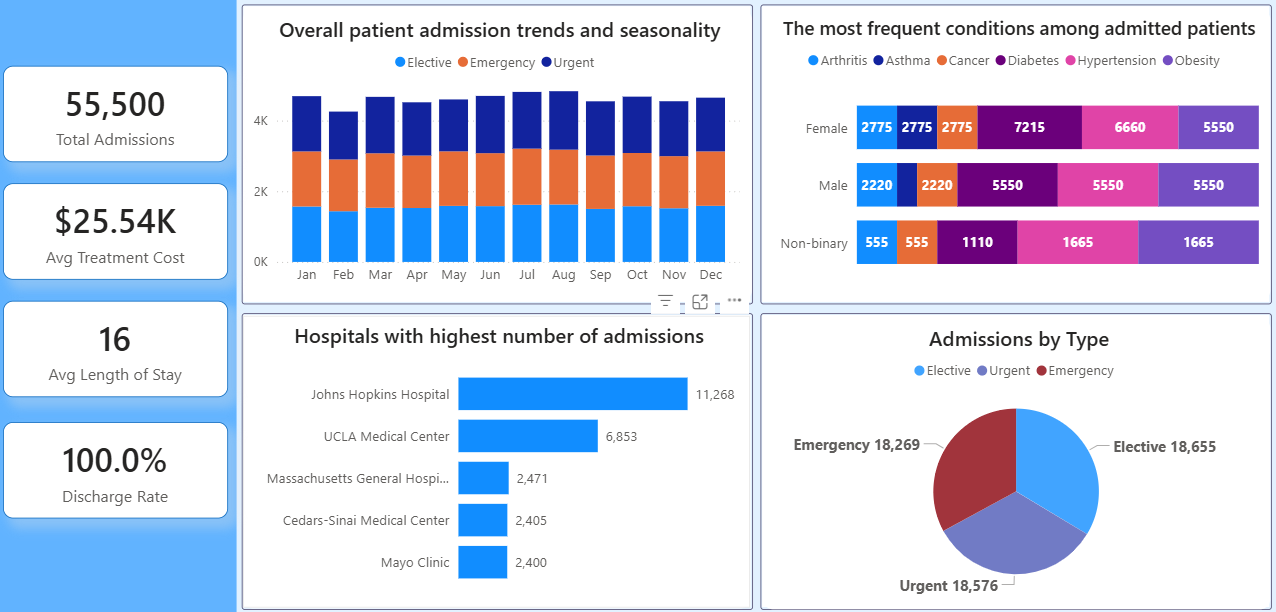
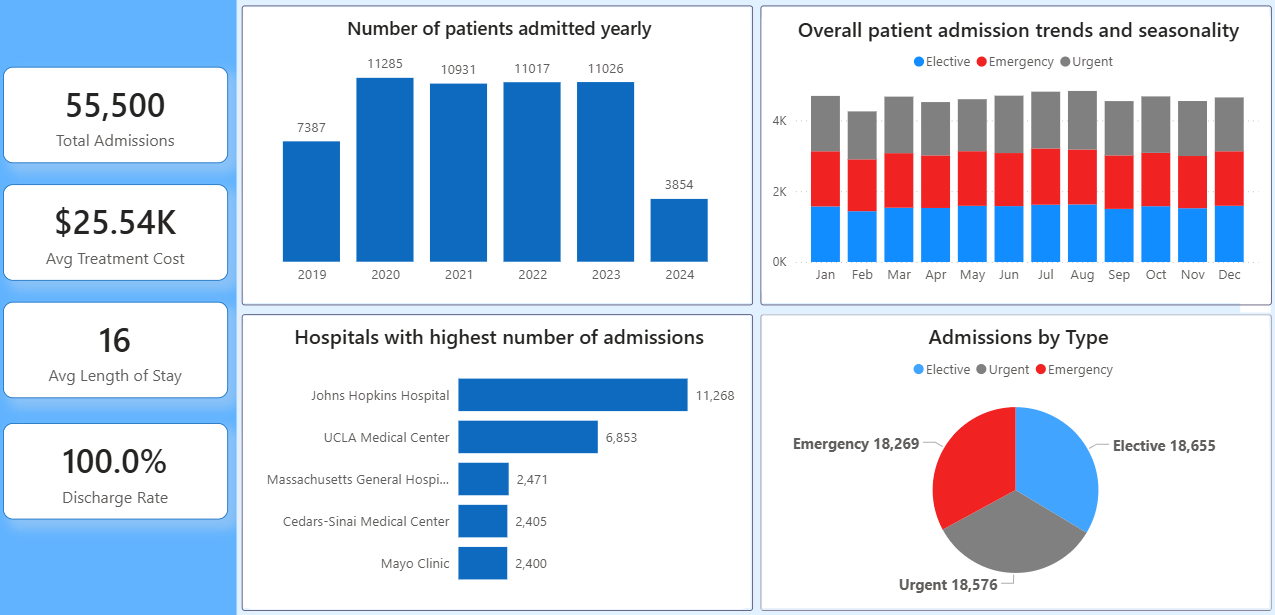
SS Patient Demo

diff --git a/README.md b/README.md
@@ -19,8 +19,10 @@ This analysis provides a comprehensive overview of hospital operations, patient 
 
 ## 2. Patient Demographics
 
+![Patient Demographics](<Images/Patient Demographics.png>)
+
 - **Female patients** represent a slightly higher share of total admissions.
-- The majority of patients fall within the **middle-aged to senior** categories, aligning with higher incidences of chronic illnesses such as **Diabetes, Hypertension, and Arthritis**.
+- The majority of patients fall within the **middle-aged to senior** categories, aligning with higher incidences of chronic illnesses such as **Diabetes and Hypertension**.
 - **Regional patterns** indicate relatively uniform patient distribution across hospitals, with no major geographical bias.
 
 ## 3. Hospital Performance
